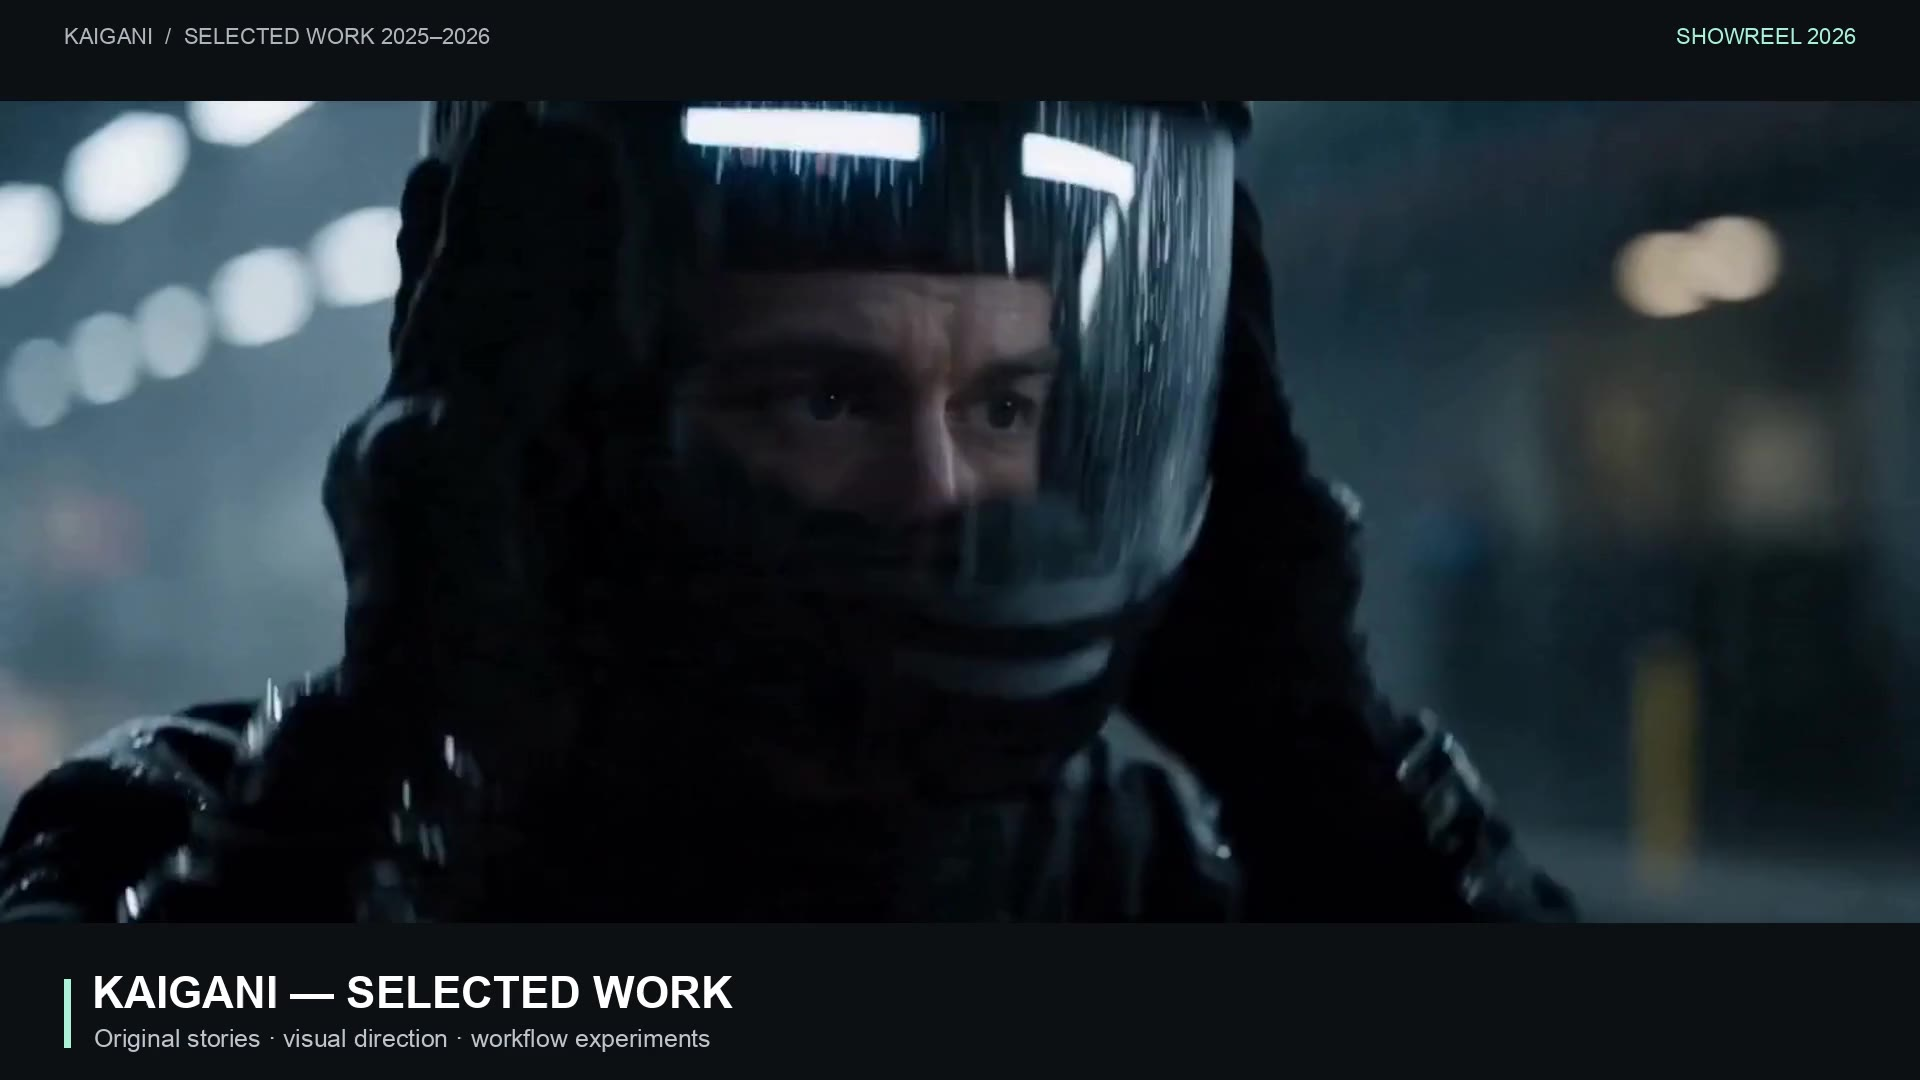
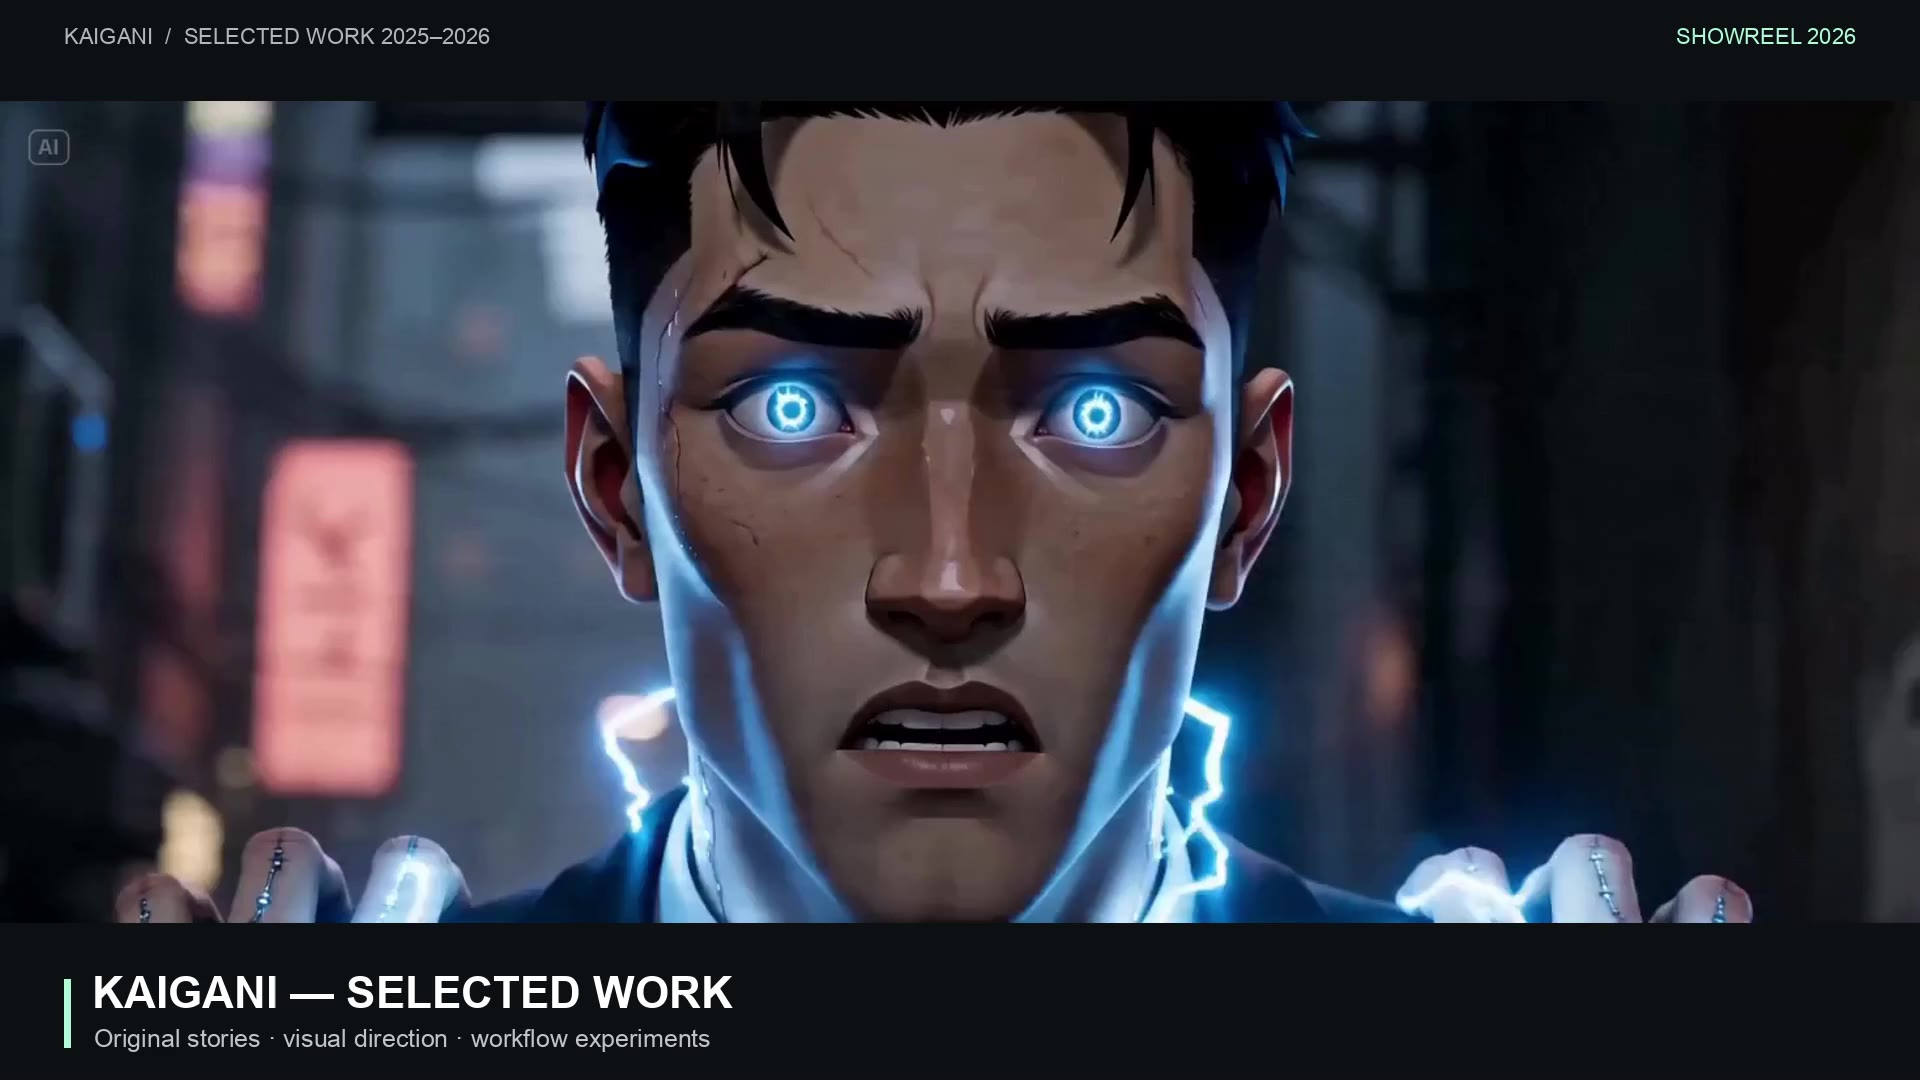
Use the showreel's first frame as the video poster

diff --git a/studio/index.html b/studio/index.html
@@ -36,7 +36,7 @@
                 </div>
                 <div class="frame">
                     <video controls playsinline preload="metadata"
-                           poster="assets/showreel-poster.jpg" width="1920" height="1080">
+                           poster="assets/showreel-poster.jpg?v=2" width="1920" height="1080">
                         <source src="assets/showreel.mp4" type="video/mp4">
                         Your browser doesn't support HTML video.
                         <a href="assets/showreel.mp4">Download the showreel</a>.
